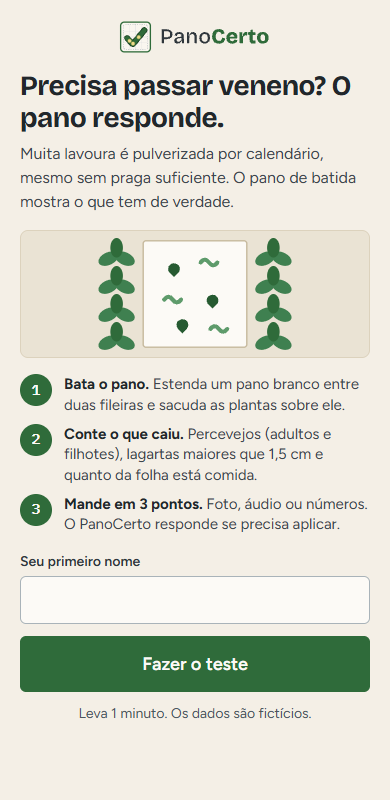
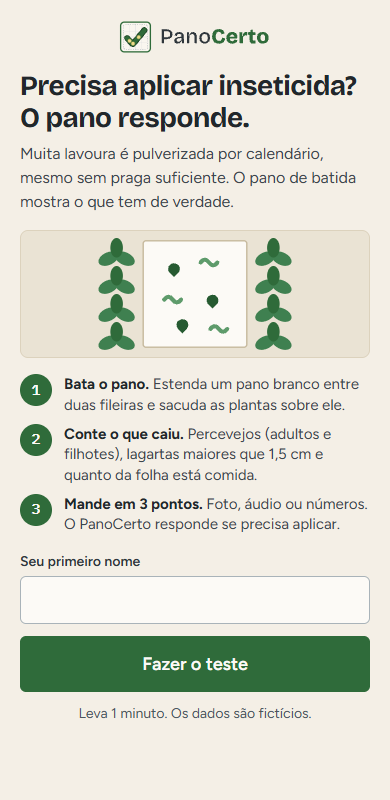
Ajustes finais: desfolha perguntada, limite de semente explicado, sem valores em reais

Changed region(s): [[0.0615, 0.0938, 0.9231, 0.1875]]

diff --git a/frontend/src/componentes/banca/Contador.tsx b/frontend/src/componentes/banca/Contador.tsx
@@ -1,15 +1,27 @@
 import { Minus, Plus } from 'lucide-react'
 import { useState } from 'react'
 
-const CAMPOS = [
+type Campo = 'percevejos' | 'lagartas' | 'desfolha'
+const CAMPOS: { id: Campo; rotulo: string; dica: string; passo: number; maximo: number; sufixo: string }[] = [
   { id: 'percevejos', rotulo: 'Percevejos', dica: 'adultos e filhotes', passo: 1, maximo: 999, sufixo: '' },
   { id: 'lagartas', rotulo: 'Lagartas grandes', dica: 'maiores que 1,5 cm', passo: 1, maximo: 999, sufixo: '' },
   { id: 'desfolha', rotulo: 'Folha comida', dica: 'no olho, em %', passo: 5, maximo: 100, sufixo: '%' },
-] as const
+]
 
-/** Contagem com botões grandes, para usar com o dedo no campo. Manda o mesmo texto que o produtor digitaria. */
+/**
+ * Contagem com botões grandes, para usar com o dedo no campo. Manda o mesmo texto que o produtor digitaria.
+ * A folha comida começa vazia: o produtor precisa informar (nada é presumido).
+ */
 export function Contador({ aoEnviar, inicial }: { aoEnviar: (texto: string) => void; inicial?: { percevejos: number; lagartas: number } }) {
-  const [v, setV] = useState({ percevejos: inicial?.percevejos ?? 0, lagartas: inicial?.lagartas ?? 0, desfolha: 10 })
+  const [v, setV] = useState<Record<Campo, number | null>>({ percevejos: inicial?.percevejos ?? 0, lagartas: inicial?.lagartas ?? 0, desfolha: null })
+  const mudar = (c: (typeof CAMPOS)[number], sinal: 1 | -1) => {
+    const atual = v[c.id]
+    // vazio: o primeiro toque em + vira 0; em - continua vazio
+    const novo = atual === null ? (sinal > 0 ? 0 : null) : Math.min(c.maximo, Math.max(0, atual + sinal * c.passo))
+    setV({ ...v, [c.id]: novo })
+  }
+  const p = v.percevejos ?? 0
+  const l = v.lagartas ?? 0
 
   return (
     <div className="space-y-3">
@@ -20,14 +32,19 @@ export function Contador({ aoEnviar, inicial }: { aoEnviar: (texto: string) => v
             <p className="text-sm text-ardosia-600">{c.dica}</p>
           </div>
           <div className="flex items-center gap-2">
-            <button type="button" className="btn btn-neutro min-h-14 min-w-14" aria-label={`Menos ${c.rotulo}`} onClick={() => setV({ ...v, [c.id]: Math.max(0, v[c.id] - c.passo) })}><Minus size={24} aria-hidden="true" /></button>
-            <output className="numero w-14 text-center text-2xl font-semibold" aria-live="polite">{v[c.id]}{c.sufixo}</output>
-            <button type="button" className="btn btn-neutro min-h-14 min-w-14" aria-label={`Mais ${c.rotulo}`} onClick={() => setV({ ...v, [c.id]: Math.min(c.maximo, v[c.id] + c.passo) })}><Plus size={24} aria-hidden="true" /></button>
+            <button type="button" className="btn btn-neutro min-h-14 min-w-14" aria-label={`Menos ${c.rotulo}`} onClick={() => mudar(c, -1)}><Minus size={24} aria-hidden="true" /></button>
+            <output className="numero w-14 text-center text-2xl font-semibold" aria-live="polite">{v[c.id] === null ? '–' : `${v[c.id]}${c.sufixo}`}</output>
+            <button type="button" className="btn btn-neutro min-h-14 min-w-14" aria-label={`Mais ${c.rotulo}`} onClick={() => mudar(c, 1)}><Plus size={24} aria-hidden="true" /></button>
           </div>
         </div>
       ))}
-      <button type="button" className="btn btn-primario min-h-14 w-full text-lg" onClick={() => aoEnviar(`${v.percevejos} ${v.percevejos === 1 ? 'percevejo' : 'percevejos'} ${v.lagartas} ${v.lagartas === 1 ? 'lagarta' : 'lagartas'} ${v.desfolha}%`)}>
-        {inicial ? 'Está certo assim, enviar' : 'Enviar este ponto'}
+      <button
+        type="button"
+        className="btn btn-primario min-h-14 w-full text-lg"
+        disabled={v.desfolha === null}
+        onClick={() => aoEnviar(`${p} ${p === 1 ? 'percevejo' : 'percevejos'} ${l} ${l === 1 ? 'lagarta' : 'lagartas'} ${v.desfolha}%`)}
+      >
+        {v.desfolha === null ? 'Informe a folha comida' : inicial ? 'Está certo assim, enviar' : 'Enviar este ponto'}
       </button>
     </div>
   )

diff --git a/frontend/src/componentes/banca/Resultado.tsx b/frontend/src/componentes/banca/Resultado.tsx
@@ -1,13 +1,14 @@
-import { CalendarClock, CircleCheck, Clock, PiggyBank, TriangleAlert } from 'lucide-react'
-import { dinheiro, numero } from '../../formatar'
+import { CalendarClock, CircleCheck, Clock, Sprout, TriangleAlert } from 'lucide-react'
+import { numero } from '../../formatar'
 
-export interface Medida { nome: string; media: number; limite: number | null; unidade: string }
+export interface Medida { nome: string; media: number; limite: number | null; unidade: string; nota: string | null }
 export interface ResultadoBanca {
   decisao: 'ACIMA' | 'PERTO' | 'ABAIXO'
   medidas: Medida[]
   hectares: number
   economia: number
   alerta: 'PENDENTE' | 'CONFIRMADO' | 'REVISITAR' | null
+  areaSemPulverizar: number
 }
 
 // Terra roxa só em "aplicar"
@@ -35,7 +36,7 @@ function Barra({ m }: { m: Medida }) {
     <li>
       <p className="flex justify-between gap-2 text-sm">
         <strong>{m.nome}</strong>
-        <span><span className="numero font-semibold">{valor}</span> <span className="text-ardosia-600">(limite {numero(m.limite, 0)}{m.unidade === '%' ? '%' : ''})</span></span>
+        <span><span className="numero font-semibold">{valor}</span> <span className="text-ardosia-600">(limite {numero(m.limite, 0)}{m.unidade === '%' ? '%' : ''}{m.nota ? ` (${m.nota})` : ''})</span></span>
       </p>
       <div className="relative mt-1 h-3 rounded-full bg-linho-300" aria-hidden="true">
         <div className={`h-3 rounded-full ${passou ? 'bg-terra-600' : 'bg-soja-500'}`} style={{ width: `${(m.media / escala) * 100}%` }} />
@@ -73,14 +74,13 @@ export function Resultado({ talhao, r }: { talhao: string; r: ResultadoBanca }) 
             <p>Ainda não é hora de gastar com inseticida. <strong>Monitore de novo em 3 dias</strong> para ver se a praga sobe.</p>
           </div>
         )}
-        {r.economia > 0 && r.decisao !== 'PERTO' && (
-          <div className="flex gap-3 rounded-md border border-ouro-400 bg-ouro-50 p-3">
-            <PiggyBank size={24} className="shrink-0 text-ouro-700" aria-hidden="true" />
+        {r.areaSemPulverizar > 0 && r.decisao !== 'PERTO' && (
+          <div className="flex gap-3 rounded-md border border-soja-300 bg-soja-50 p-3">
+            <Sprout size={24} className="shrink-0 text-soja-700" aria-hidden="true" />
             <p>
               {r.decisao === 'ACIMA'
-                ? <>Aplicando <strong>só aqui</strong>, e não na propriedade toda, você deixa de gastar cerca de <strong className="numero">{dinheiro(r.economia)}</strong>.</>
-                : <>Você evitou uma pulverização agora: cerca de <strong className="numero">{dinheiro(r.economia)}</strong> neste talhão.</>}
-              <span className="block text-sm text-ardosia-600">Estimativa por hectare, para demonstração.</span>
+                ? <>Aplicando <strong>só aqui</strong>, <strong className="numero">{numero(r.areaSemPulverizar)} ha</strong> da propriedade ficam sem pulverizar.</>
+                : <>Você evitou uma pulverização agora em <strong className="numero">{numero(r.areaSemPulverizar)} ha</strong>.</>}
             </p>
           </div>
         )}

diff --git a/frontend/src/paginas/Inicio.tsx b/frontend/src/paginas/Inicio.tsx
@@ -1,4 +1,4 @@
-import { BellRing, CalendarCheck, PiggyBank, Send, Users, Sprout, CircleCheck } from 'lucide-react'
+import { BellRing, Send, Users, Sprout, CircleCheck } from 'lucide-react'
 import { useEffect, useRef, useState, type ReactNode } from 'react'
 import { Link } from 'react-router-dom'
 import { CartesianGrid, Line, LineChart, ReferenceLine, ResponsiveContainer, Tooltip, XAxis, YAxis } from 'recharts'
@@ -6,7 +6,7 @@ import { api } from '../api'
 import { Carregando, Erro, Titulo } from '../componentes/Estados'
 import { MapaTalhoes } from '../componentes/MapaTalhoes'
 import { StatusBadge } from '../componentes/StatusBadge'
-import { dinheiro, inteiro, numero, textoDias } from '../formatar'
+import { inteiro, numero, textoDias } from '../formatar'
 import { mensagemDeErro, useAtualizarSozinho, useCarregar } from '../hooks'
 import type { Dashboard, NivelAcao, PressaoSemanal, Produtor, StatusSistema, TalhaoResumo } from '../tipos'
 import { BotaoConfirmar } from '../componentes/BotaoConfirmar'
@@ -29,7 +29,7 @@ function Linha({ t, selo, acao }: { t: TalhaoResumo; selo?: ReactNode; acao?: Re
           <span className="text-ardosia-600">{t.produtorNome}</span>
           {selo}
         </p>
-        <p className="numero text-[13px] text-ardosia-600">{t.estadio} · {numero(t.hectares)} ha</p>
+        <p className="numero text-[13px] text-ardosia-600">{t.estadio} · {numero(t.hectares)} ha{t.finalidade === 'SEMENTE' ? ' · semente (limite 1 percevejo)' : ''}</p>
         {t.decisao && <Medias t={t} />}
       </div>
       {acao}
@@ -49,7 +49,7 @@ function Grupo({ titulo, quantidade, vazio, children, destaque = false }: { titu
   )
 }
 
-function Indicador({ rotulo, valor, explicacao, icone: Icone }: { rotulo: string; valor: string; explicacao: string; icone: typeof PiggyBank }) {
+function Indicador({ rotulo, valor, explicacao, icone: Icone }: { rotulo: string; valor: string; explicacao: string; icone: typeof Sprout }) {
   return (
     <div className="cartao">
       <p className="flex items-center gap-2 text-sm font-semibold text-ardosia-600">
@@ -207,19 +207,7 @@ export function Inicio() {
       </section>
 
       {/* Indicadores */}
-      <section aria-label="Indicadores da safra" className="mb-6 grid gap-4 sm:grid-cols-2 xl:grid-cols-4">
-        <Indicador
-          icone={CalendarCheck}
-          rotulo="Aplicações evitadas na safra"
-          valor={numero(d.aplicacoesEvitadas)}
-          explicacao={`Calendário fixo de 3,6 aplicações por talhão (${numero(d.aplicacoesCalendario)} no total) menos as ${inteiro(d.aplicacoesFeitas)} feitas.`}
-        />
-        <Indicador
-          icone={PiggyBank}
-          rotulo="Economia estimada"
-          valor={dinheiro(d.economiaEstimada)}
-          explicacao={`Aplicações evitadas × hectares × ${dinheiro(d.custoAplicacaoHa)} por hectare (configurável).`}
-        />
+      <section aria-label="Indicadores da safra" className="mb-6 grid gap-4 sm:grid-cols-2">
         <Indicador
           icone={Sprout}
           rotulo="Talhões monitorados na semana"

diff --git a/frontend/src/paginas/Testar.tsx b/frontend/src/paginas/Testar.tsx
@@ -23,7 +23,7 @@ type Tipo = 'TEXTO' | 'IMAGEM' | 'AUDIO' | 'BOTAO'
 
 /** "Entendi: 3 percevejos e 4 lagartas. Está certo?" -> { 3, 4 } para abrir o contador já preenchido. */
 function contagemDaPergunta(texto: string | null): { percevejos: number; lagartas: number } | undefined {
-  const m = /(?:Entendi|Contei):? (\d+) percevejos? e (\d+) lagartas?/.exec(texto ?? '')
+  const m = /(?:Entendi|Contei|Você informou):? (\d+) percevejos? e (\d+) lagartas?/.exec(texto ?? '')
   return m ? { percevejos: Number(m[1]), lagartas: Number(m[2]) } : undefined
 }
 

diff --git a/backend/src/main/java/br/com/panocerto/servico/ServicoBanca.java b/backend/src/main/java/br/com/panocerto/servico/ServicoBanca.java
@@ -93,12 +93,13 @@ public class ServicoBanca {
     }
 
     /** limite null: este item não conta neste estádio. */
-    public record Medida(String nome, double media, Double limite, String unidade) {
+    /** nota: explica um limite diferente, ex.: "soja para semente". */
+    public record Medida(String nome, double media, Double limite, String unidade, String nota) {
     }
 
     /** economia: estimativa do que se deixa de gastar (ver calcularEconomia). */
     public record Resultado(Decisao decisao, List<Medida> medidas, double hectares, double economia,
-                            StatusAlerta alerta) {
+                            StatusAlerta alerta, double areaSemPulverizar) {
     }
 
     public record Resumo(String talhao, List<Ponto> pontos, Resultado resultado) {
@@ -122,24 +123,29 @@ public class ServicoBanca {
         }
         RegraMip.Limites limites = niveis.regra().limites(talhao.getEstadio(), talhao.getFinalidade());
         List<Medida> medidas = List.of(
-                new Medida("Percevejos", m.getMediaPercevejos(), limites.percevejo(), "por pano"),
-                new Medida("Lagartas", m.getMediaLagartas(), limites.lagarta(), "por pano"),
-                new Medida("Folha comida", m.getMediaDesfolha(), limites.desfolha(), "%"));
+                new Medida("Percevejos", m.getMediaPercevejos(), limites.percevejo(), "por pano",
+                        talhao.getFinalidade() == Finalidade.SEMENTE ? "soja para semente" : null),
+                new Medida("Lagartas", m.getMediaLagartas(), limites.lagarta(), "por pano", null),
+                new Medida("Folha comida", m.getMediaDesfolha(), limites.desfolha(), "%", null));
         StatusAlerta alerta = alertas.findFirstByTalhaoIdOrderByCriadoEmDesc(talhao.getId())
                 .filter(a -> a.getMonitoramento() != null && a.getMonitoramento().getId().equals(m.getId()))
                 .map(Alerta::getStatus).orElse(null);
         return new Resumo(talhao.getNome(), pontos, new Resultado(m.getDecisao(), medidas,
-                talhao.getHectares().doubleValue(), calcularEconomia(talhao, m.getDecisao()), alerta));
+                talhao.getHectares().doubleValue(), calcularEconomia(talhao, m.getDecisao()), alerta,
+                areaSemPulverizar(talhao, m.getDecisao())));
     }
 
     /** Sem aplicar: a área do talhão. Aplicando: as outras áreas do produtor, que ficam sem pulverizar. */
     private double calcularEconomia(Talhao talhao, Decisao decisao) {
-        double area = decisao != Decisao.ACIMA
+        return areaSemPulverizar(talhao, decisao) * config.custoAplicacaoHa();
+    }
+
+    private double areaSemPulverizar(Talhao talhao, Decisao decisao) {
+        return decisao != Decisao.ACIMA
                 ? talhao.getHectares().doubleValue()
                 : talhoes.findByProdutorIdOrderByNome(talhao.getProdutor().getId()).stream()
                         .filter(t -> !t.getId().equals(talhao.getId()))
                         .mapToDouble(t -> t.getHectares().doubleValue()).sum();
-        return area * config.custoAplicacaoHa();
     }
 
     /** Botão "Limpar testes": todos os celulares voltam para a tela de entrada. */

diff --git a/backend/src/main/java/br/com/panocerto/ia/ClienteIaTexto.java b/backend/src/main/java/br/com/panocerto/ia/ClienteIaTexto.java
@@ -68,9 +68,18 @@ abstract class ClienteIaTexto {
         Integer percevejos = inteiroOuNulo(resposta, "percevejos", 999);
         Integer lagartas = inteiroOuNulo(resposta, "lagartas", 999);
         Integer desfolha = inteiroOuNulo(resposta, "desfolha", 100);
+        if (!falouDeFolha(texto)) {
+            desfolha = null;   // a IA às vezes chuta a desfolha: sem o produtor falar, o robô pergunta
+        }
         if (percevejos != null && lagartas == null) lagartas = 0;
         if (lagartas != null && percevejos == null) percevejos = 0;
         return new ParserTexto.Numeros(percevejos, lagartas, desfolha);
+    }
+
+    /** O texto fala de folha ou de porcentagem? */
+    static boolean falouDeFolha(String texto) {
+        String t = texto == null ? "" : texto.toLowerCase();
+        return t.contains("folha") || t.contains("%") || t.contains("cento") || t.contains("comid");
     }
 
     /** Cada fornecedor implementa: manda o pedido (com ou sem foto) e devolve o JSON respondido. */

diff --git a/backend/src/test/java/br/com/panocerto/ia/DesfolhaTest.java b/backend/src/test/java/br/com/panocerto/ia/DesfolhaTest.java
@@ -1,0 +1,28 @@
+package br.com.panocerto.ia;
+
+import com.fasterxml.jackson.databind.JsonNode;
+import com.fasterxml.jackson.databind.ObjectMapper;
+import org.junit.jupiter.api.Test;
+
+import static org.junit.jupiter.api.Assertions.*;
+
+/** Sem o produtor falar de folha, a desfolha que a IA devolver é ignorada (o robô pergunta). */
+class DesfolhaTest {
+
+    private final ClienteIaTexto ia = new ClienteIaTexto(new ObjectMapper()) {
+        @Override
+        protected JsonNode perguntar(String pedido, byte[] imagem, String mime) {
+            return lerJson("{\"percevejos\": 4, \"lagartas\": 2, \"desfolha\": 10}");
+        }
+    };
+
+    @Test
+    void ignoraDesfolhaQueOProdutorNaoFalou() {
+        assertNull(ia.extrairNumeros("contei quatro percevejos e duas lagartas").desfolha());
+    }
+
+    @Test
+    void usaDesfolhaQuandoOProdutorFalou() {
+        assertEquals(10, ia.extrairNumeros("quatro percevejos, duas lagartas, folha uns dez por cento").desfolha());
+    }
+}

diff --git a/backend/src/main/java/br/com/panocerto/robo/ServicoRobo.java b/backend/src/main/java/br/com/panocerto/robo/ServicoRobo.java
@@ -347,7 +347,8 @@ public class ServicoRobo {
         if (n.percevejos() > LIMITE_CONFERIR || n.lagartas() > LIMITE_CONFERIR) {
             c.setPendenteDesfolha(n.desfolha());
             c.setEstado(EstadoConversa.CONFIRMANDO_CONTAGEM);
-            envio.botoes(p, "Contei " + contar(n.percevejos(), n.lagartas()) + " num pano só. É bastante: está certo?",
+            String quem = origem == Origem.TEXTO ? "Você informou " : "Contei ";
+            envio.botoes(p, quem + contar(n.percevejos(), n.lagartas()) + " num pano só. É bastante: está certo?",
                     List.of(new Opcao("CONT_OK", "Sim, está certo"), new Opcao("CONT_DIGITAR", "Corrigir")));
             return;
         }

diff --git a/README.md b/README.md
@@ -28,7 +28,7 @@ O produtor bate o pano e manda **uma foto, um áudio ou um texto** pelo celular.
 3. **Regra do MIP:** quem **decide** é uma regra fixa, em código testado. Ela compara a média dos pontos com os níveis de ação. A IA nunca decide sozinha.
 4. **Técnico:** recebe o alerta no painel, confirma a aplicação com um clique, e o produtor é avisado na hora.
 
-O resultado aparece como um semáforo, com o motivo em linguagem simples e a economia estimada.
+O resultado aparece como um semáforo, com o motivo em linguagem simples e a área que fica sem pulverizar.
 
 <p align="center">
   <img src="docs/telas/painel-inicio.png" alt="Painel do técnico da cooperativa" width="820">
@@ -77,7 +77,7 @@ Testes: `cd backend; .\mvnw.cmd test`. O guia técnico completo, com a conexão 
 ## Avisos importantes
 
 - **Níveis de ação:** vêm das recomendações da **Embrapa Soja** e do **IDR-Paraná**. Eles **ainda estão em validação com agrônomo** e podem ser ajustados na tela "Regras do MIP".
-- **Economia:** a economia mostrada é uma **estimativa**, feita com um custo por hectare configurável e um calendário fixo de comparação. Não é um resultado medido no campo.
+- **Economia:** o protótipo não mostra valores em reais. A redução de aplicações citada no pitch vem da Embrapa Soja e do IDR-Paraná; a economia real será medida no piloto.
 - **Dados:** todos os produtores, talhões e números do protótipo são fictícios.
 
 ## Equipe
